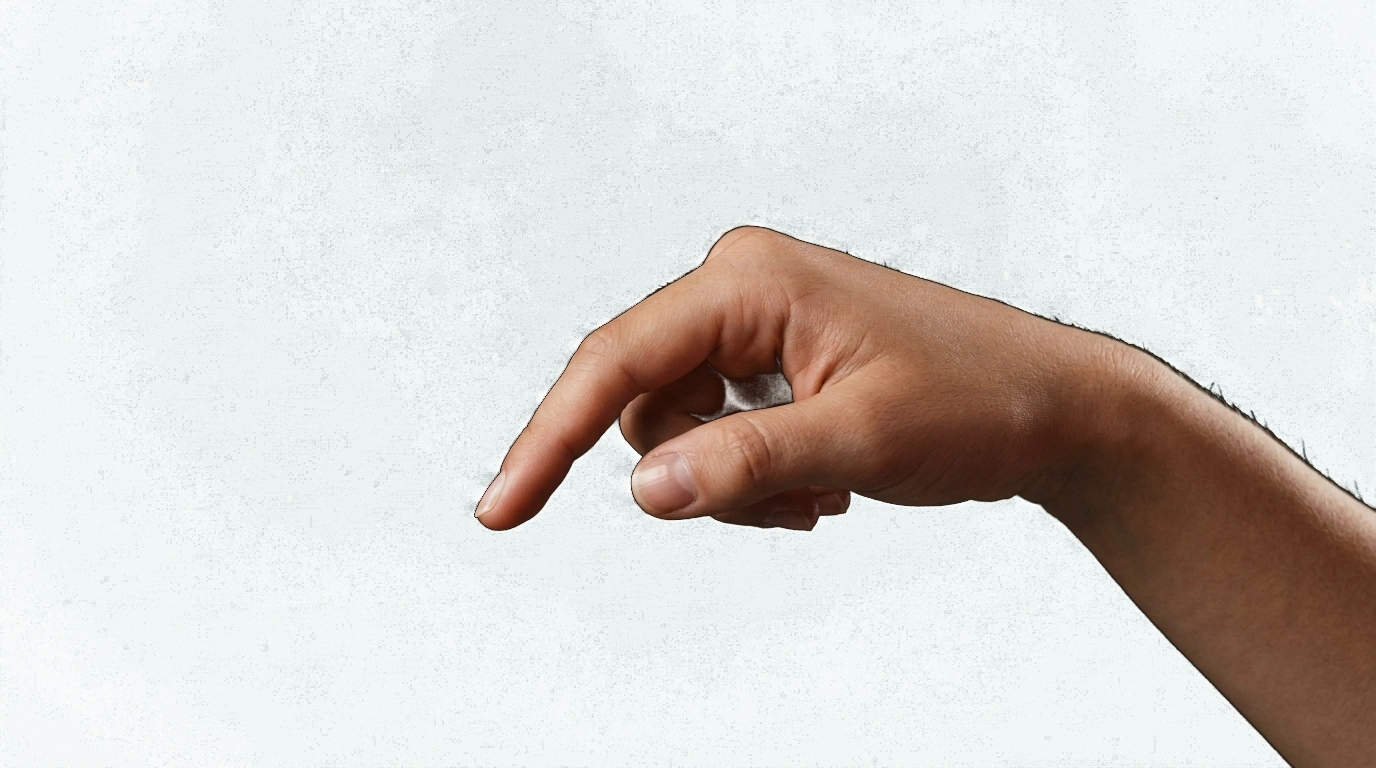
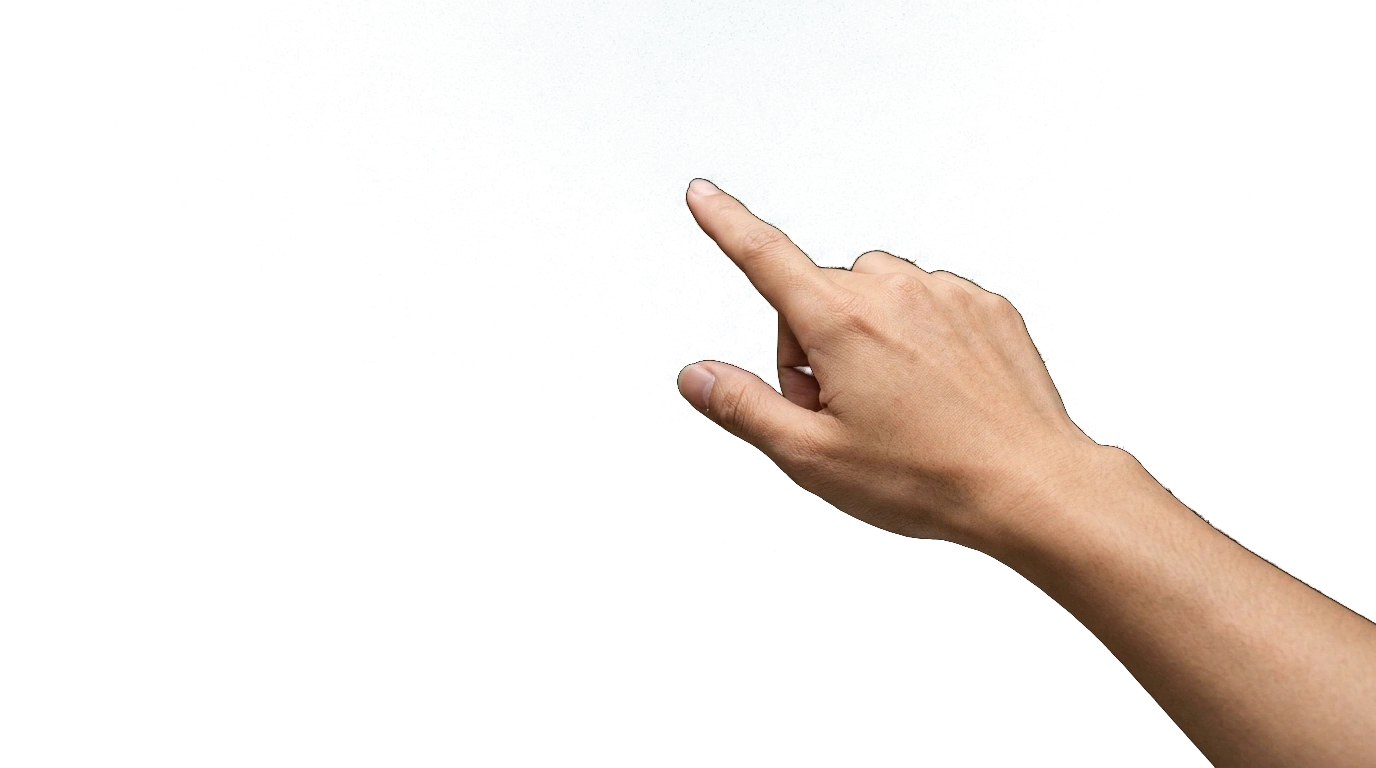
fix(stage-02): tay dua vao trong bam truc tiep vao man hinh tablet va phong to dong bo

diff --git a/main.js b/main.js
@@ -17,6 +17,7 @@ async function initScrollytelling() {
     wheelMultiplier: 1.0,
     touchMultiplier: 1.5,
   });
+  window.lenis = lenis;
 
   function raf(time) {
     lenis.raf(time);
@@ -120,28 +121,43 @@ async function initScrollytelling() {
     const progress = Math.min(1, Math.max(0, passed / totalDist));
 
     if (progress <= 0.40) {
-      // Phase 1: Cái tay di chuyển bấm vô màn hình và PHÓNG TO FULL MÀN HÌNH
+      // Phase 1: Bàn tay đưa từ ngoài vào trong bấm vô màn hình và PHÓNG TO FULL MÀN HÌNH
       const p1 = progress / 0.40;
 
-      // Tay di chuyển từ ngoài vào bấm màn hình (hover effect)
-      const handHoverY = p1 < 0.25 ? (1 - p1 / 0.25) * 35 : 0;
-      const handHoverX = p1 < 0.25 ? (1 - p1 / 0.25) * 25 : 0;
-      const zoomScale = 1 + p1 * 1.6; // Zoom cả tay lẫn màn hình từ 1.0 lên 2.6 full screen
+      // Tay đưa vào trong bấm vô màn hình:
+      // Khi vừa cuộn vào (p1 < 0.22): tay từ dưới góc phải tiến sâu vào trong và hạ ngón tay chạm màn hình
+      const enterPhase = Math.min(1, p1 / 0.22);
+      const handOffsetX = (1 - enterPhase) * 36;
+      const handOffsetY = (1 - enterPhase) * 28;
+
+      // Hiệu ứng ấn ngón tay chạm xuống mặt kính màn hình (tap press)
+      const tapPress = (p1 >= 0.18 && p1 <= 0.30)
+        ? Math.sin((p1 - 0.18) / 0.12 * Math.PI) * 4
+        : 0;
+
+      const zoomScale = 1 + p1 * 1.55; // Zoom cả tay lẫn màn hình tablet từ 1.0 lên ~2.55 phóng to vào màn hình
 
       tabletDeviceLayer.style.transform = `scale(${zoomScale})`;
       tabletDeviceLayer.style.opacity = '1';
 
-      const handOpacity = p1 > 0.65 ? Math.max(0, 1 - (p1 - 0.65) / 0.35) : 1;
-      handTapLayer.style.transform = `translate3d(${handHoverX}px, ${handHoverY}px, 0) scale(${zoomScale})`;
+      // Hand opacity: Giữ rõ nét khi bấm và phóng to, rồi mờ dần hòa vào màn hình
+      const handOpacity = p1 > 0.60 ? Math.max(0, 1 - (p1 - 0.60) / 0.35) : 1;
+      handTapLayer.style.transform = `translate3d(${handOffsetX}px, ${handOffsetY + tapPress}px, 0) scale(${zoomScale})`;
       handTapLayer.style.opacity = handOpacity;
 
-      screenDiveLayer.style.opacity = p1 > 0.5 ? (p1 - 0.5) / 0.5 : 0;
-      screenDiveLayer.style.transform = `scale(${0.88 + p1 * 0.12})`;
-      screenScrollTrack.style.transform = 'translate3d(0, 0, 0)';
-      if (capScanStatus) capScanStatus.textContent = p1 < 0.25 ? 'Chạm ngón tay lên tablet...' : '1 Chạm Quét Đề AI';
+      // Vòng tròn gợn sóng phát ra từ đầu ngón tay bấm vô màn hình
+      const tapRipple = document.getElementById('tap-ripple');
+      if (tapRipple) {
+        tapRipple.style.opacity = (p1 >= 0.15 && p1 <= 0.65) ? '1' : '0.4';
+      }
 
-      if (hudPill1) hudPill1.className = 'hud-step-pill ' + (p1 < 0.5 ? 'is-active' : '');
-      if (hudPill2) hudPill2.className = 'hud-step-pill ' + (p1 >= 0.5 ? 'is-active' : '');
+      screenDiveLayer.style.opacity = p1 > 0.45 ? (p1 - 0.45) / 0.55 : 0;
+      screenDiveLayer.style.transform = `scale(${0.90 + p1 * 0.10})`;
+      screenScrollTrack.style.transform = 'translate3d(0, 0, 0)';
+      if (capScanStatus) capScanStatus.textContent = p1 < 0.22 ? 'Tay đưa vào chạm màn hình...' : '1 Chạm Quét Đề AI';
+
+      if (hudPill1) hudPill1.className = 'hud-step-pill ' + (p1 < 0.45 ? 'is-active' : '');
+      if (hudPill2) hudPill2.className = 'hud-step-pill ' + (p1 >= 0.45 ? 'is-active' : '');
       if (hudPill3) hudPill3.className = 'hud-step-pill';
     } else {
       // Phase 2: ĐI VÀO TRONG MÀN HÌNH VÀ KÉO NỘI DUNG CUỘN TRANG FULL MÀN HÌNH

diff --git a/kiyo-editorial.css b/kiyo-editorial.css
@@ -590,7 +590,7 @@ body {
   inset: 0;
   width: 100%;
   height: 100%;
-  transform-origin: 50% 50%;
+  transform-origin: 49.2% 49.7%;
   will-change: transform, opacity;
   z-index: 1;
 }
@@ -607,7 +607,7 @@ body {
   inset: 0;
   width: 100%;
   height: 100%;
-  transform-origin: 50% 50%;
+  transform-origin: 49.2% 49.7%;
   will-change: transform, opacity;
   z-index: 3;
   pointer-events: none;
@@ -747,14 +747,14 @@ body {
 
 .tap-ripple-effect {
   position: absolute;
-  top: 48%;
-  left: 50%;
-  width: 48px;
-  height: 48px;
-  margin: -24px 0 0 -24px;
+  top: 49.7%;
+  left: 49.2%;
+  width: 52px;
+  height: 52px;
+  margin: -26px 0 0 -26px;
   border-radius: 50%;
   border: 2px solid #38bdf8;
-  box-shadow: 0 0 24px rgba(56, 189, 248, 0.7);
+  box-shadow: 0 0 28px rgba(56, 189, 248, 0.85);
   animation: ripplePulse 1.8s ease-out infinite;
   pointer-events: none;
   z-index: 4;
